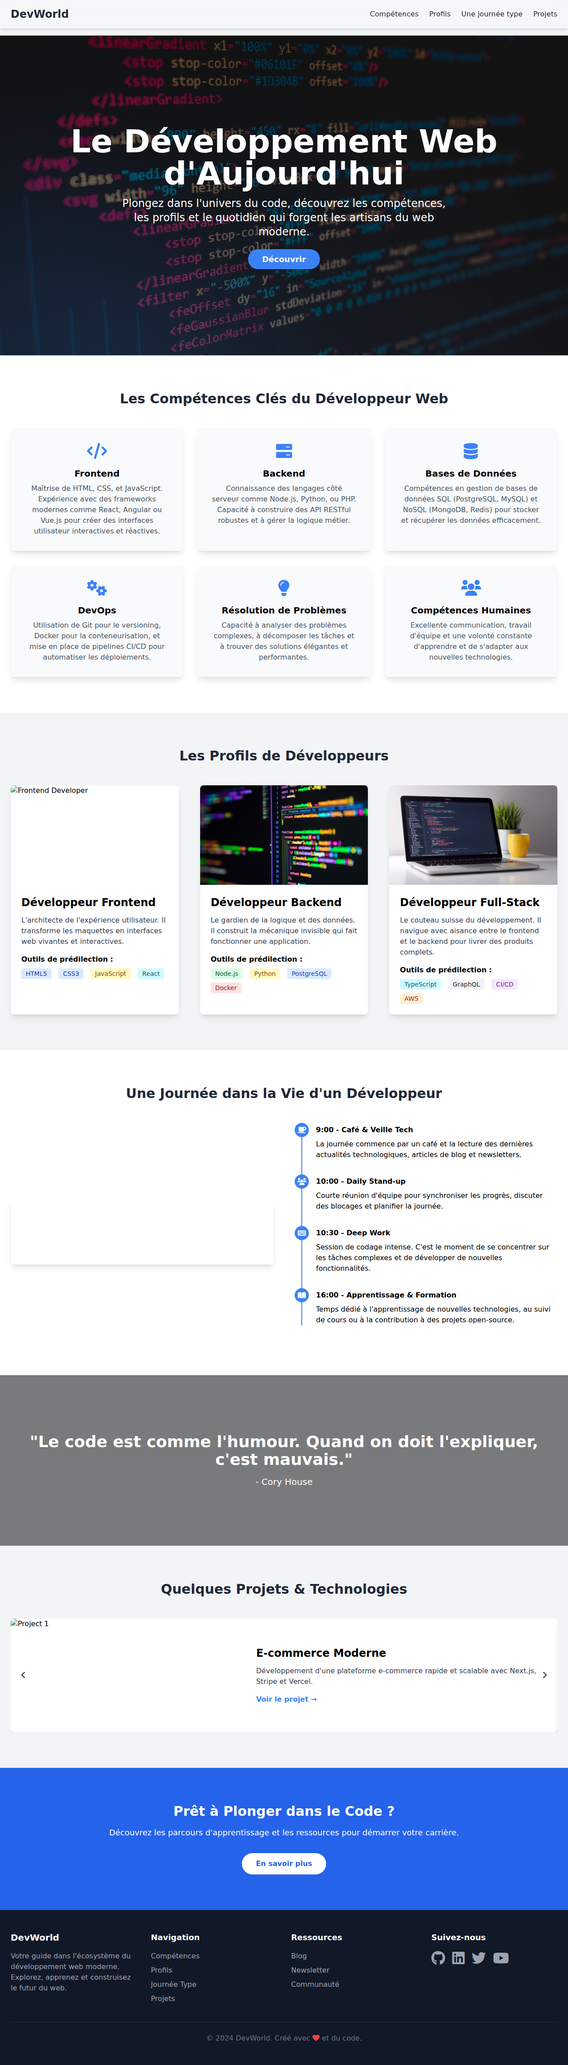
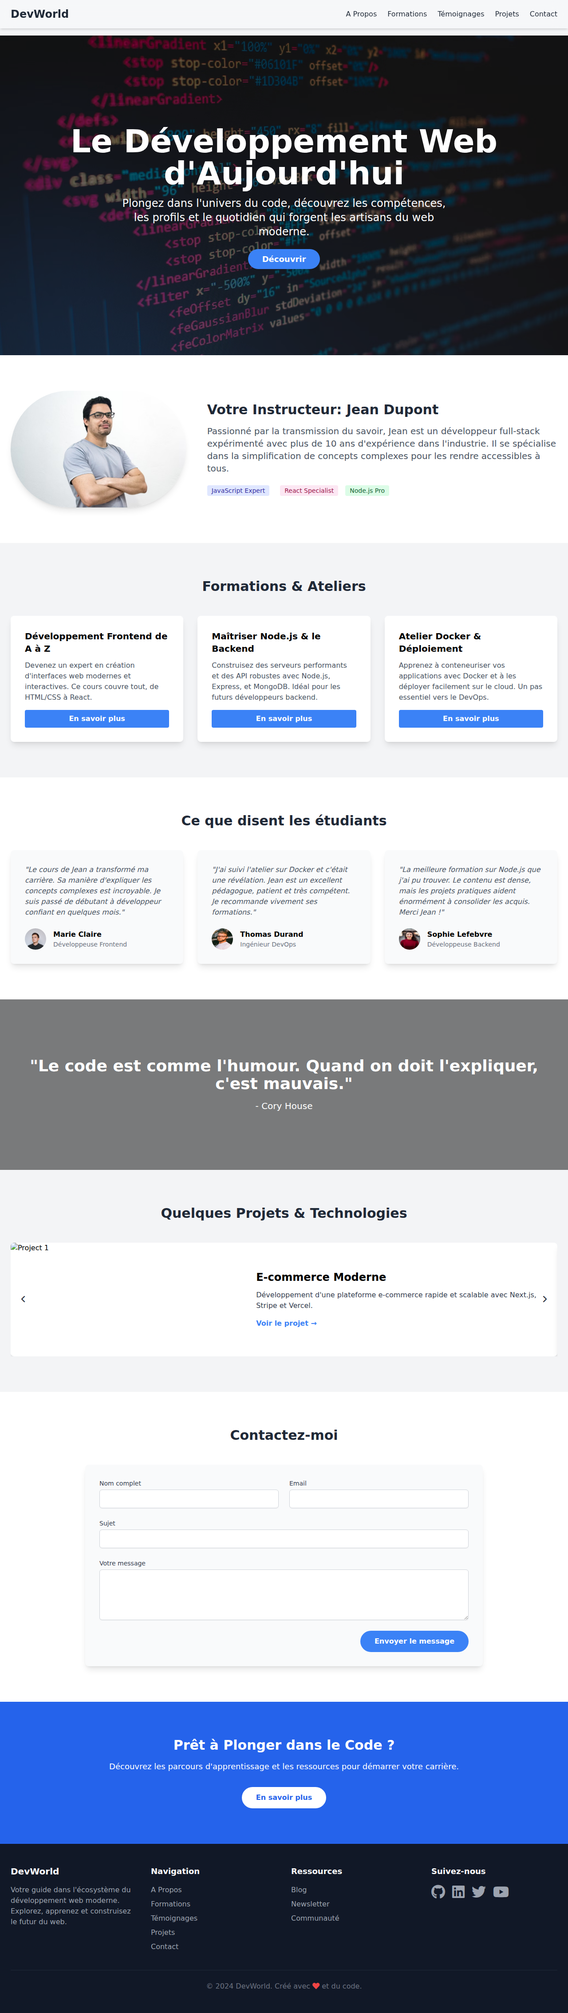
feat: Enhance landing page with instructor CV sections
This commit enhances the web development landing page by adding several new sections to make it function as an instructor's CV.

The following sections have been added:
- Instructor Profile: A section with a photo and biography.
- Course Offerings: A showcase of available courses and workshops.
- Student Testimonials: A section with quotes from past students.
- Contact Form: A detailed form for inquiries.

The page structure and navigation have been updated to reflect these new sections. Redundant sections were removed to streamline the content and focus on the instructor's profile. The background colors have been adjusted for a clean, alternating design.

diff --git a/index.html b/index.html
@@ -15,10 +15,11 @@
             <div class="container mx-auto px-6 py-4 flex justify-between items-center">
                 <a href="#" class="text-2xl font-bold text-gray-800">DevWorld</a>
                 <div class="hidden md:flex space-x-6">
-                    <a href="#skills" class="text-gray-800 hover:text-blue-500">Compétences</a>
-                    <a href="#profiles" class="text-gray-800 hover:text-blue-500">Profils</a>
-                    <a href="#day-in-life" class="text-gray-800 hover:text-blue-500">Une journée type</a>
+                    <a href="#instructor" class="text-gray-800 hover:text-blue-500">A Propos</a>
+                    <a href="#courses" class="text-gray-800 hover:text-blue-500">Formations</a>
+                    <a href="#testimonials" class="text-gray-800 hover:text-blue-500">Témoignages</a>
                     <a href="#projects" class="text-gray-800 hover:text-blue-500">Projets</a>
+                    <a href="#contact" class="text-gray-800 hover:text-blue-500">Contact</a>
                 </div>
                 <button id="mobile-menu-button" class="md:hidden flex items-center">
                     <svg class="w-6 h-6" fill="none" stroke="currentColor" viewBox="0 0 24 24" xmlns="http://www.w3.org/2000/svg"><path stroke-linecap="round" stroke-linejoin="round" stroke-width="2" d="M4 6h16M4 12h16m-7 6h7"></path></svg>
@@ -26,10 +27,11 @@
             </div>
             <!-- Mobile Menu -->
             <div id="mobile-menu" class="hidden md:hidden">
-                <a href="#skills" class="block py-2 px-4 text-sm hover:bg-gray-200">Compétences</a>
-                <a href="#profiles" class="block py-2 px-4 text-sm hover:bg-gray-200">Profils</a>
-                <a href="#day-in-life" class="block py-2 px-4 text-sm hover:bg-gray-200">Une journée type</a>
+                <a href="#instructor" class="block py-2 px-4 text-sm hover:bg-gray-200">A Propos</a>
+                <a href="#courses" class="block py-2 px-4 text-sm hover:bg-gray-200">Formations</a>
+                <a href="#testimonials" class="block py-2 px-4 text-sm hover:bg-gray-200">Témoignages</a>
                 <a href="#projects" class="block py-2 px-4 text-sm hover:bg-gray-200">Projets</a>
+                <a href="#contact" class="block py-2 px-4 text-sm hover:bg-gray-200">Contact</a>
             </div>
         </nav>
     </header>
@@ -46,180 +48,90 @@
             </div>
         </section>
 
-        <!-- Core Competencies Section -->
-        <section id="skills" class="py-20 bg-white">
-            <div class="container mx-auto px-6">
-                <h2 class="text-3xl font-bold text-center text-gray-800 mb-12">Les Compétences Clés du Développeur Web</h2>
-                <div class="grid grid-cols-1 md:grid-cols-2 lg:grid-cols-3 gap-8">
-                    <!-- Skill Card 1 -->
-                    <div class="bg-gray-50 rounded-lg shadow-lg p-8 text-center hover:shadow-xl transition-shadow duration-300">
-                        <div class="text-blue-500 mb-4">
-                            <i class="fas fa-code text-4xl"></i>
-                        </div>
-                        <h3 class="text-xl font-bold mb-2">Frontend</h3>
-                        <p class="text-gray-600">Maîtrise de HTML, CSS, et JavaScript. Expérience avec des frameworks modernes comme React, Angular ou Vue.js pour créer des interfaces utilisateur interactives et réactives.</p>
-                    </div>
-                    <!-- Skill Card 2 -->
-                    <div class="bg-gray-50 rounded-lg shadow-lg p-8 text-center hover:shadow-xl transition-shadow duration-300">
-                        <div class="text-blue-500 mb-4">
-                            <i class="fas fa-server text-4xl"></i>
-                        </div>
-                        <h3 class="text-xl font-bold mb-2">Backend</h3>
-                        <p class="text-gray-600">Connaissance des langages côté serveur comme Node.js, Python, ou PHP. Capacité à construire des API RESTful robustes et à gérer la logique métier.</p>
-                    </div>
-                    <!-- Skill Card 3 -->
-                    <div class="bg-gray-50 rounded-lg shadow-lg p-8 text-center hover:shadow-xl transition-shadow duration-300">
-                        <div class="text-blue-500 mb-4">
-                            <i class="fas fa-database text-4xl"></i>
-                        </div>
-                        <h3 class="text-xl font-bold mb-2">Bases de Données</h3>
-                        <p class="text-gray-600">Compétences en gestion de bases de données SQL (PostgreSQL, MySQL) et NoSQL (MongoDB, Redis) pour stocker et récupérer les données efficacement.</p>
-                    </div>
-                    <!-- Skill Card 4 -->
-                    <div class="bg-gray-50 rounded-lg shadow-lg p-8 text-center hover:shadow-xl transition-shadow duration-300">
-                        <div class="text-blue-500 mb-4">
-                            <i class="fas fa-cogs text-4xl"></i>
-                        </div>
-                        <h3 class="text-xl font-bold mb-2">DevOps</h3>
-                        <p class="text-gray-600">Utilisation de Git pour le versioning, Docker pour la conteneurisation, et mise en place de pipelines CI/CD pour automatiser les déploiements.</p>
-                    </div>
-                    <!-- Skill Card 5 -->
-                    <div class="bg-gray-50 rounded-lg shadow-lg p-8 text-center hover:shadow-xl transition-shadow duration-300">
-                        <div class="text-blue-500 mb-4">
-                            <i class="fas fa-lightbulb text-4xl"></i>
-                        </div>
-                        <h3 class="text-xl font-bold mb-2">Résolution de Problèmes</h3>
-                        <p class="text-gray-600">Capacité à analyser des problèmes complexes, à décomposer les tâches et à trouver des solutions élégantes et performantes.</p>
-                    </div>
-                    <!-- Skill Card 6 -->
-                    <div class="bg-gray-50 rounded-lg shadow-lg p-8 text-center hover:shadow-xl transition-shadow duration-300">
-                        <div class="text-blue-500 mb-4">
-                            <i class="fas fa-users text-4xl"></i>
-                        </div>
-                        <h3 class="text-xl font-bold mb-2">Compétences Humaines</h3>
-                        <p class="text-gray-600">Excellente communication, travail d'équipe et une volonté constante d'apprendre et de s'adapter aux nouvelles technologies.</p>
-                    </div>
-                </div>
-            </div>
-        </section>
 
-        <!-- Developer Profiles Section -->
-        <section id="profiles" class="py-20 bg-gray-100">
+        <!-- Instructor Profile Section -->
+        <section id="instructor" class="py-20 bg-white">
             <div class="container mx-auto px-6">
-                <h2 class="text-3xl font-bold text-center text-gray-800 mb-12">Les Profils de Développeurs</h2>
-                <div class="grid grid-cols-1 md:grid-cols-3 gap-12">
-                    <!-- Profile Card 1: Frontend -->
-                    <div class="bg-white rounded-lg shadow-lg overflow-hidden">
-                        <img src="https://images.unsplash.com/photo-1581479433921-2b95a8f8d8c2?q=80&w=800&auto=format&fit=crop" alt="Frontend Developer" class="w-full h-56 object-cover">
-                        <div class="p-6">
-                            <h3 class="text-2xl font-bold mb-3">Développeur Frontend</h3>
-                            <p class="text-gray-700 mb-4">L'architecte de l'expérience utilisateur. Il transforme les maquettes en interfaces web vivantes et interactives.</p>
-                            <h4 class="font-semibold mb-2">Outils de prédilection :</h4>
-                            <div class="flex flex-wrap gap-2">
-                                <span class="bg-blue-100 text-blue-800 text-sm font-medium mr-2 px-2.5 py-0.5 rounded">HTML5</span>
-                                <span class="bg-blue-100 text-blue-800 text-sm font-medium mr-2 px-2.5 py-0.5 rounded">CSS3</span>
-                                <span class="bg-yellow-100 text-yellow-800 text-sm font-medium mr-2 px-2.5 py-0.5 rounded">JavaScript</span>
-                                <span class="bg-cyan-100 text-cyan-800 text-sm font-medium mr-2 px-2.5 py-0.5 rounded">React</span>
-                            </div>
-                        </div>
-                    </div>
-                    <!-- Profile Card 2: Backend -->
-                    <div class="bg-white rounded-lg shadow-lg overflow-hidden">
-                        <img src="https://images.unsplash.com/photo-1592609931095-54a2168ae893?q=80&w=800&auto=format&fit=crop" alt="Backend Developer" class="w-full h-56 object-cover">
-                        <div class="p-6">
-                            <h3 class="text-2xl font-bold mb-3">Développeur Backend</h3>
-                            <p class="text-gray-700 mb-4">Le gardien de la logique et des données. Il construit la mécanique invisible qui fait fonctionner une application.</p>
-                            <h4 class="font-semibold mb-2">Outils de prédilection :</h4>
-                             <div class="flex flex-wrap gap-2">
-                                <span class="bg-green-100 text-green-800 text-sm font-medium mr-2 px-2.5 py-0.5 rounded">Node.js</span>
-                                <span class="bg-yellow-100 text-yellow-800 text-sm font-medium mr-2 px-2.5 py-0.5 rounded">Python</span>
-                                <span class="bg-blue-100 text-blue-800 text-sm font-medium mr-2 px-2.5 py-0.5 rounded">PostgreSQL</span>
-                                <span class="bg-red-100 text-red-800 text-sm font-medium mr-2 px-2.5 py-0.5 rounded">Docker</span>
-                            </div>
-                        </div>
-                    </div>
-                    <!-- Profile Card 3: Full-Stack -->
-                    <div class="bg-white rounded-lg shadow-lg overflow-hidden">
-                        <img src="https://images.unsplash.com/photo-1517694712202-14dd9538aa97?q=80&w=800&auto=format&fit=crop" alt="Full-Stack Developer" class="w-full h-56 object-cover">
-                        <div class="p-6">
-                            <h3 class="text-2xl font-bold mb-3">Développeur Full-Stack</h3>
-                            <p class="text-gray-700 mb-4">Le couteau suisse du développement. Il navigue avec aisance entre le frontend et le backend pour livrer des produits complets.</p>
-                            <h4 class="font-semibold mb-2">Outils de prédilection :</h4>
-                            <div class="flex flex-wrap gap-2">
-                                <span class="bg-cyan-100 text-cyan-800 text-sm font-medium mr-2 px-2.5 py-0.5 rounded">TypeScript</span>
-                                <span class="bg-gray-100 text-gray-800 text-sm font-medium mr-2 px-2.5 py-0.5 rounded">GraphQL</span>
-                                <span class="bg-purple-100 text-purple-800 text-sm font-medium mr-2 px-2.5 py-0.5 rounded">CI/CD</span>
-                                <span class="bg-orange-100 text-orange-800 text-sm font-medium mr-2 px-2.5 py-0.5 rounded">AWS</span>
-                            </div>
-                        </div>
-                    </div>
-                </div>
-            </div>
-        </section>
-
-        <!-- "A Day in the Life" Section -->
-        <section id="day-in-life" class="py-20 bg-white">
-            <div class="container mx-auto px-6">
-                <h2 class="text-3xl font-bold text-center text-gray-800 mb-12">Une Journée dans la Vie d'un Développeur</h2>
                 <div class="flex flex-col md:flex-row items-center gap-12">
-                    <!-- Video -->
-                    <div class="w-full md:w-1/2">
-                        <video class="rounded-lg shadow-lg w-full" autoplay loop muted playsinline>
-                            <source src="https://videos.pexels.com/video-files/5473300/5473300-hd_1280_720_25fps.mp4" type="video/mp4">
-                            Votre navigateur ne supporte pas la vidéo.
-                        </video>
+                    <div class="w-full md:w-1/3">
+                        <img src="https://images.unsplash.com/photo-1557862921-37829c790f19?q=80&w=800&auto=format&fit=crop" alt="Instructor" class="rounded-full shadow-lg mx-auto">
                     </div>
-                    <!-- Timeline -->
-                    <div class="w-full md:w-1/2">
-                        <div class="relative">
-                            <!-- Vertical line -->
-                            <div class="border-r-2 border-blue-500 absolute h-full top-0" style="left: 15px"></div>
-                            <ul class="list-none m-0 p-0">
-                                <li class="mb-8">
-                                    <div class="flex items-center mb-1">
-                                        <div class="bg-blue-500 rounded-full h-8 w-8 flex items-center justify-center z-10">
-                                            <i class="fas fa-coffee text-white"></i>
-                                        </div>
-                                        <div class="flex-1 ml-4 font-bold">9:00 - Café & Veille Tech</div>
-                                    </div>
-                                    <div class="ml-12">
-                                        <p>La journée commence par un café et la lecture des dernières actualités technologiques, articles de blog et newsletters.</p>
-                                    </div>
-                                </li>
-                                <li class="mb-8">
-                                    <div class="flex items-center mb-1">
-                                        <div class="bg-blue-500 rounded-full h-8 w-8 flex items-center justify-center z-10">
-                                            <i class="fas fa-users text-white"></i>
-                                        </div>
-                                        <div class="flex-1 ml-4 font-bold">10:00 - Daily Stand-up</div>
-                                    </div>
-                                    <div class="ml-12">
-                                        <p>Courte réunion d'équipe pour synchroniser les progrès, discuter des blocages et planifier la journée.</p>
-                                    </div>
-                                </li>
-                                <li class="mb-8">
-                                    <div class="flex items-center mb-1">
-                                        <div class="bg-blue-500 rounded-full h-8 w-8 flex items-center justify-center z-10">
-                                            <i class="fas fa-keyboard text-white"></i>
-                                        </div>
-                                        <div class="flex-1 ml-4 font-bold">10:30 - Deep Work</div>
-                                    </div>
-                                    <div class="ml-12">
-                                        <p>Session de codage intense. C'est le moment de se concentrer sur les tâches complexes et de développer de nouvelles fonctionnalités.</p>
-                                    </div>
-                                </li>
-                                <li class="mb-8">
-                                    <div class="flex items-center mb-1">
-                                        <div class="bg-blue-500 rounded-full h-8 w-8 flex items-center justify-center z-10">
-                                            <i class="fas fa-book-open text-white"></i>
-                                        </div>
-                                        <div class="flex-1 ml-4 font-bold">16:00 - Apprentissage & Formation</div>
-                                    </div>
-                                    <div class="ml-12">
-                                        <p>Temps dédié à l'apprentissage de nouvelles technologies, au suivi de cours ou à la contribution à des projets open-source.</p>
-                                    </div>
-                                </li>
-                            </ul>
+                    <div class="w-full md:w-2/3 text-center md:text-left">
+                        <h2 class="text-3xl font-bold text-gray-800 mb-4">Votre Instructeur: Jean Dupont</h2>
+                        <p class="text-xl text-gray-600 mb-6">Passionné par la transmission du savoir, Jean est un développeur full-stack expérimenté avec plus de 10 ans d'expérience dans l'industrie. Il se spécialise dans la simplification de concepts complexes pour les rendre accessibles à tous.</p>
+                        <div class="flex justify-center md:justify-start space-x-4">
+                            <span class="bg-indigo-100 text-indigo-800 text-sm font-medium mr-2 px-2.5 py-0.5 rounded">JavaScript Expert</span>
+                            <span class="bg-pink-100 text-pink-800 text-sm font-medium mr-2 px-2.5 py-0.5 rounded">React Specialist</span>
+                            <span class="bg-green-100 text-green-800 text-sm font-medium mr-2 px-2.5 py-0.5 rounded">Node.js Pro</span>
+                        </div>
+                    </div>
+                </div>
+            </div>
+        </section>
+
+        <!-- Course Offerings Section -->
+        <section id="courses" class="py-20 bg-gray-100">
+            <div class="container mx-auto px-6">
+                <h2 class="text-3xl font-bold text-center text-gray-800 mb-12">Formations & Ateliers</h2>
+                <div class="grid grid-cols-1 md:grid-cols-2 lg:grid-cols-3 gap-8">
+                    <!-- Course Card 1 -->
+                    <div class="bg-white rounded-lg shadow-lg p-8 flex flex-col">
+                        <h3 class="text-xl font-bold mb-3">Développement Frontend de A à Z</h3>
+                        <p class="text-gray-600 flex-grow mb-4">Devenez un expert en création d'interfaces web modernes et interactives. Ce cours couvre tout, de HTML/CSS à React.</p>
+                        <a href="#" class="mt-auto bg-blue-500 text-white font-bold py-2 px-4 rounded hover:bg-blue-600 transition-colors text-center">En savoir plus</a>
+                    </div>
+                    <!-- Course Card 2 -->
+                    <div class="bg-white rounded-lg shadow-lg p-8 flex flex-col">
+                        <h3 class="text-xl font-bold mb-3">Maîtriser Node.js & le Backend</h3>
+                        <p class="text-gray-600 flex-grow mb-4">Construisez des serveurs performants et des API robustes avec Node.js, Express, et MongoDB. Idéal pour les futurs développeurs backend.</p>
+                        <a href="#" class="mt-auto bg-blue-500 text-white font-bold py-2 px-4 rounded hover:bg-blue-600 transition-colors text-center">En savoir plus</a>
+                    </div>
+                    <!-- Course Card 3 -->
+                    <div class="bg-white rounded-lg shadow-lg p-8 flex flex-col">
+                        <h3 class="text-xl font-bold mb-3">Atelier Docker & Déploiement</h3>
+                        <p class="text-gray-600 flex-grow mb-4">Apprenez à conteneuriser vos applications avec Docker et à les déployer facilement sur le cloud. Un pas essentiel vers le DevOps.</p>
+                        <a href="#" class="mt-auto bg-blue-500 text-white font-bold py-2 px-4 rounded hover:bg-blue-600 transition-colors text-center">En savoir plus</a>
+                    </div>
+                </div>
+            </div>
+        </section>
+
+        <!-- Student Testimonials Section -->
+        <section id="testimonials" class="py-20 bg-white">
+            <div class="container mx-auto px-6">
+                <h2 class="text-3xl font-bold text-center text-gray-800 mb-12">Ce que disent les étudiants</h2>
+                <div class="grid grid-cols-1 md:grid-cols-2 lg:grid-cols-3 gap-8">
+                    <!-- Testimonial 1 -->
+                    <div class="bg-gray-50 rounded-lg shadow-lg p-8">
+                        <p class="text-gray-600 mb-6 italic">"Le cours de Jean a transformé ma carrière. Sa manière d'expliquer les concepts complexes est incroyable. Je suis passé de débutant à développeur confiant en quelques mois."</p>
+                        <div class="flex items-center">
+                            <img src="https://images.unsplash.com/photo-1535713875002-d1d0cf377fde?q=80&w=400&auto=format&fit=crop" alt="Student 1" class="w-12 h-12 rounded-full mr-4">
+                            <div>
+                                <p class="font-bold">Marie Claire</p>
+                                <p class="text-sm text-gray-500">Développeuse Frontend</p>
+                            </div>
+                        </div>
+                    </div>
+                    <!-- Testimonial 2 -->
+                    <div class="bg-gray-50 rounded-lg shadow-lg p-8">
+                        <p class="text-gray-600 mb-6 italic">"J'ai suivi l'atelier sur Docker et c'était une révélation. Jean est un excellent pédagogue, patient et très compétent. Je recommande vivement ses formations."</p>
+                        <div class="flex items-center">
+                            <img src="https://images.unsplash.com/photo-1599566150163-29194dcaad36?q=80&w=400&auto=format&fit=crop" alt="Student 2" class="w-12 h-12 rounded-full mr-4">
+                            <div>
+                                <p class="font-bold">Thomas Durand</p>
+                                <p class="text-sm text-gray-500">Ingénieur DevOps</p>
+                            </div>
+                        </div>
+                    </div>
+                    <!-- Testimonial 3 -->
+                    <div class="bg-gray-50 rounded-lg shadow-lg p-8">
+                        <p class="text-gray-600 mb-6 italic">"La meilleure formation sur Node.js que j'ai pu trouver. Le contenu est dense, mais les projets pratiques aident énormément à consolider les acquis. Merci Jean !"</p>
+                        <div class="flex items-center">
+                            <img src="https://images.unsplash.com/photo-1494790108377-be9c29b29330?q=80&w=400&auto=format&fit=crop" alt="Student 3" class="w-12 h-12 rounded-full mr-4">
+                            <div>
+                                <p class="font-bold">Sophie Lefebvre</p>
+                                <p class="text-sm text-gray-500">Développeuse Backend</p>
+                            </div>
                         </div>
                     </div>
                 </div>
@@ -286,6 +198,38 @@
             </div>
         </section>
 
+        <!-- Contact Form Section -->
+        <section id="contact" class="py-20 bg-white">
+            <div class="container mx-auto px-6">
+                <h2 class="text-3xl font-bold text-center text-gray-800 mb-12">Contactez-moi</h2>
+                <div class="max-w-4xl mx-auto bg-gray-50 p-8 rounded-lg shadow-lg">
+                    <form action="#" method="POST">
+                        <div class="grid grid-cols-1 md:grid-cols-2 gap-6">
+                            <div>
+                                <label for="name" class="block text-sm font-medium text-gray-700">Nom complet</label>
+                                <input type="text" name="name" id="name" autocomplete="name" class="mt-1 block w-full px-3 py-2 bg-white border border-gray-300 rounded-md shadow-sm placeholder-gray-400 focus:outline-none focus:ring-blue-500 focus:border-blue-500">
+                            </div>
+                            <div>
+                                <label for="email" class="block text-sm font-medium text-gray-700">Email</label>
+                                <input type="email" name="email" id="email" autocomplete="email" class="mt-1 block w-full px-3 py-2 bg-white border border-gray-300 rounded-md shadow-sm placeholder-gray-400 focus:outline-none focus:ring-blue-500 focus:border-blue-500">
+                            </div>
+                            <div class="md:col-span-2">
+                                <label for="subject" class="block text-sm font-medium text-gray-700">Sujet</label>
+                                <input type="text" name="subject" id="subject" class="mt-1 block w-full px-3 py-2 bg-white border border-gray-300 rounded-md shadow-sm placeholder-gray-400 focus:outline-none focus:ring-blue-500 focus:border-blue-500">
+                            </div>
+                            <div class="md:col-span-2">
+                                <label for="message" class="block text-sm font-medium text-gray-700">Votre message</label>
+                                <textarea id="message" name="message" rows="4" class="mt-1 block w-full px-3 py-2 bg-white border border-gray-300 rounded-md shadow-sm placeholder-gray-400 focus:outline-none focus:ring-blue-500 focus:border-blue-500"></textarea>
+                            </div>
+                        </div>
+                        <div class="text-right mt-6">
+                            <button type="submit" class="bg-blue-500 text-white font-bold py-3 px-8 rounded-full hover:bg-blue-600 transition duration-300">Envoyer le message</button>
+                        </div>
+                    </form>
+                </div>
+            </div>
+        </section>
+
         <!-- CTA and Modal Section -->
         <section class="py-20 bg-blue-600 text-white">
             <div class="container mx-auto px-6 text-center">
@@ -327,10 +271,11 @@
                 <div>
                     <h3 class="text-lg font-semibold mb-4">Navigation</h3>
                     <ul>
-                        <li class="mb-2"><a href="#skills" class="text-gray-400 hover:text-white transition-colors">Compétences</a></li>
-                        <li class="mb-2"><a href="#profiles" class="text-gray-400 hover:text-white transition-colors">Profils</a></li>
-                        <li class="mb-2"><a href="#day-in-life" class="text-gray-400 hover:text-white transition-colors">Journée Type</a></li>
+                        <li class="mb-2"><a href="#instructor" class="text-gray-400 hover:text-white transition-colors">A Propos</a></li>
+                        <li class="mb-2"><a href="#courses" class="text-gray-400 hover:text-white transition-colors">Formations</a></li>
+                        <li class="mb-2"><a href="#testimonials" class="text-gray-400 hover:text-white transition-colors">Témoignages</a></li>
                         <li class="mb-2"><a href="#projects" class="text-gray-400 hover:text-white transition-colors">Projets</a></li>
+                        <li class="mb-2"><a href="#contact" class="text-gray-400 hover:text-white transition-colors">Contact</a></li>
                     </ul>
                 </div>
                 <!-- Resources -->
